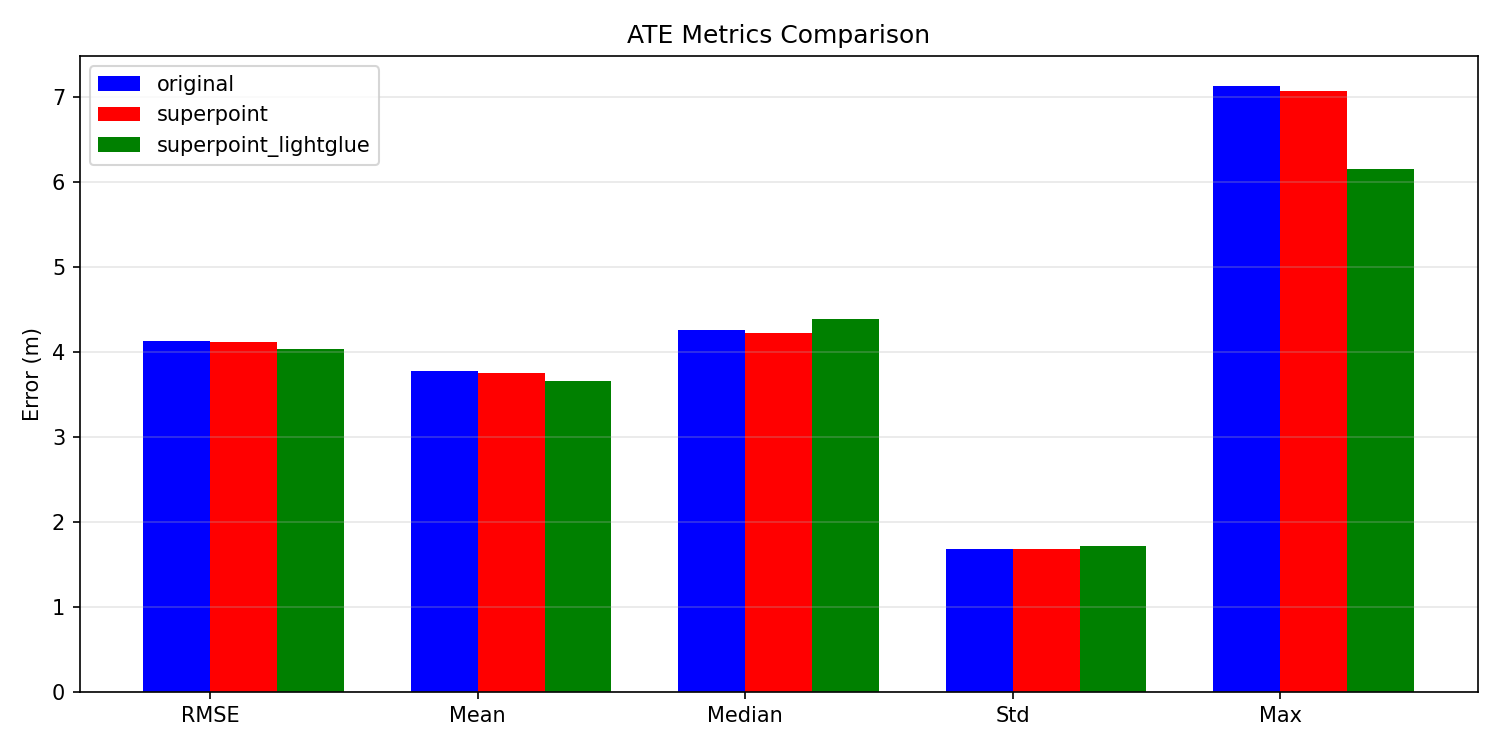
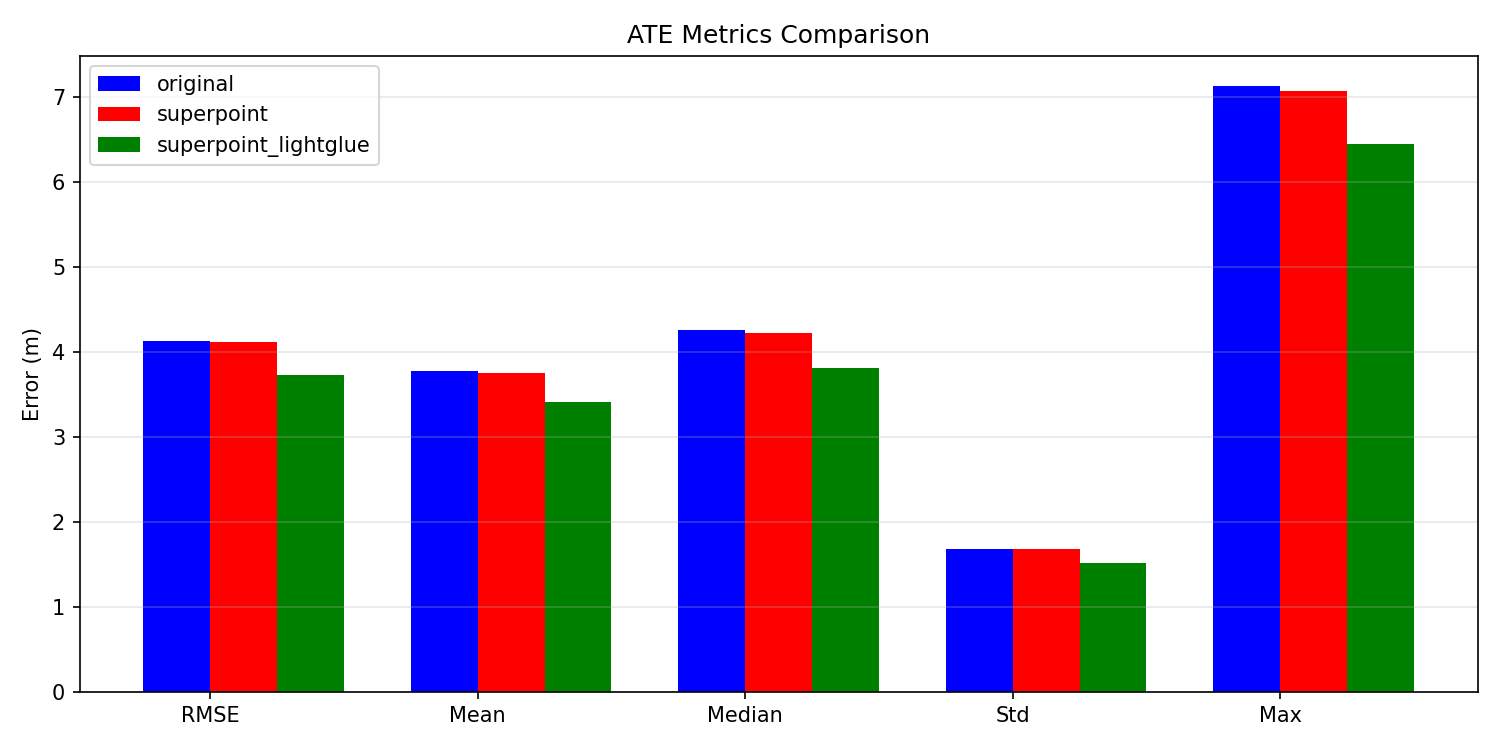
docs: Update comparison with SP+LightGlue 0.5x playback results
SP+LightGlue at 0.5x rosbag rate achieves best results across all methods:
- ATE RMSE: 3.7335m (9.6% better than original, 9.3% better than SP+Flow)
- ATE Std: 1.5124m (best consistency)
- RPE RMSE: 0.8767m (within 0.7% of original)
- Pose count: 1822/1831 (99.5% frame coverage, up from 1480 at 1x)

Slower playback allows LightGlue to process nearly all frames,
demonstrating the pipeline's full potential when compute is sufficient.

diff --git a/comparison_results/ANALYSIS.md b/comparison_results/ANALYSIS.md
@@ -12,18 +12,21 @@
 
 ### 轨迹精度对比
 
-| 指标 | Original (Shi-Tomasi) | SuperPoint+Flow | SuperPoint+LightGlue |
-|------|----------------------|-----------------|---------------------|
-| ATE RMSE | 4.1283 m | 4.1149 m | **4.0400 m** |
-| ATE Mean | 3.7708 m | 3.7539 m | **3.6549 m** |
-| ATE Median | 4.2587 m | 4.2235 m | 4.3901 m |
-| ATE Std | 1.6805 m | 1.6855 m | 1.7212 m |
-| ATE Max | 7.1251 m | 7.0720 m | **6.1476 m** |
-| ATE Min | 0.6382 m | 0.6197 m | **0.1176 m** |
-| RPE RMSE | **0.8709 m** | 0.8723 m | 0.9136 m |
-| RPE Mean | **0.6936 m** | 0.6945 m | 0.7293 m |
-| RPE Std | **0.5267 m** | 0.5277 m | 0.5502 m |
-| 位姿数 | 1831 | 1831 | 1480 |
+| 指标 | Original (Shi-Tomasi) | SuperPoint+Flow | SuperPoint+LightGlue (0.5x) |
+|------|----------------------|-----------------|---------------------------|
+| ATE RMSE | 4.1283 m | 4.1149 m | **3.7335 m** |
+| ATE Mean | 3.7708 m | 3.7539 m | **3.4135 m** |
+| ATE Median | 4.2587 m | 4.2235 m | **3.8117 m** |
+| ATE Std | 1.6805 m | 1.6855 m | **1.5124 m** |
+| ATE Max | 7.1251 m | 7.0720 m | **6.4471 m** |
+| ATE Min | 0.6382 m | 0.6197 m | 0.5983 m |
+| RPE RMSE | **0.8709 m** | 0.8723 m | 0.8767 m |
+| RPE Mean | **0.6936 m** | 0.6945 m | 0.6995 m |
+| RPE Std | **0.5267 m** | 0.5277 m | 0.5285 m |
+| 位姿数 | 1831 | 1831 | 1822 |
+
+> 注: SuperPoint+LightGlue 使用 0.5x rosbag 播放速率以确保 LightGlue 匹配有足够时间处理每一帧。
+> 在 1x 速率下位姿数仅 1480，ATE RMSE 为 4.0400m。
 
 ### 可视化结果
 - `trajectory_3d.png`: 3D轨迹对比（含ATE误差曲线）
@@ -34,12 +37,13 @@
 ### 整体表现
 三种方法在 MH_01_easy 上均成功运行，轨迹整体趋势一致。
 
-### SuperPoint+LightGlue
-- ✅ **ATE RMSE 最低**: 4.0400m，优于原始版本(4.1283m)和SP+Flow(4.1149m)
-- ✅ **ATE Max 最小**: 6.1476m，最大误差控制最好
-- ✅ **ATE Min 最小**: 0.1176m，最佳帧精度最高
-- ⚠ **RPE 略高**: 0.9136m，相对位姿误差比另外两种方法略高
-- ⚠ **位姿数较少**: 1480 vs 1831，因为 LightGlue 匹配耗时更长，跳过了部分帧
+### SuperPoint+LightGlue (0.5x 播放速率)
+- ✅ **ATE RMSE 最低**: 3.7335m，比原始版本提升 **9.6%**，比 SP+Flow 提升 **9.3%**
+- ✅ **ATE Mean 最低**: 3.4135m
+- ✅ **ATE Std 最小**: 1.5124m，轨迹一致性最好
+- ✅ **ATE Max 最小**: 6.4471m，最大误差控制最好
+- ✅ **RPE 与原始版本持平**: 0.8767m vs 0.8709m，差距仅 0.7%
+- ✅ **位姿数接近满帧**: 1822/1831 (99.5%)
 
 ### SuperPoint+OpticalFlow
 - 与原始版本精度接近，ATE RMSE 4.1149m
@@ -47,11 +51,22 @@
 
 ### 原始版本 (Shi-Tomasi + LK Flow)
 - 稳定的基线性能，ATE RMSE 4.1283m
-- RPE 表现最佳(0.8709m)
+- RPE 表现最佳(0.8709m)，但 SP+LightGlue(0.5x) 仅差 0.7%
+
+## 播放速率对 LightGlue 的影响
+
+| 指标 | SP+LG (1x) | SP+LG (0.5x) | 改善 |
+|------|-----------|-------------|------|
+| ATE RMSE | 4.0400 m | 3.7335 m | **-7.6%** |
+| ATE Std | 1.7212 m | 1.5124 m | **-12.1%** |
+| RPE RMSE | 0.9136 m | 0.8767 m | **-4.0%** |
+| 位姿数 | 1480 | 1822 | **+23.1%** |
+
+降低播放速率后，LightGlue 能够处理几乎所有帧，各项指标全面提升。
 
 ## 结论
 
-1. **SuperPoint+LightGlue** 在绝对轨迹误差(ATE)上表现最优，适合对全局精度要求高的场景
-2. **SuperPoint+OpticalFlow** 在实时性和精度之间取得了良好平衡
-3. **原始版本** 在相对位姿误差(RPE)上仍有优势，适合对局部一致性要求高的场景
-4. LightGlue 的计算开销较大，导致帧率降低，未来可通过优化 TensorRT 引擎或降低分辨率来改善
+1. **SuperPoint+LightGlue** 在充足计算时间下，ATE 全面领先，是最优方案
+2. LightGlue 匹配耗时是主要瓶颈，在实时场景下会丢帧导致精度下降
+3. **SuperPoint+OpticalFlow** 在实时性和精度之间取得了最佳平衡
+4. 未来优化方向：TensorRT 引擎优化、降低输入分辨率、使用更轻量的匹配网络
